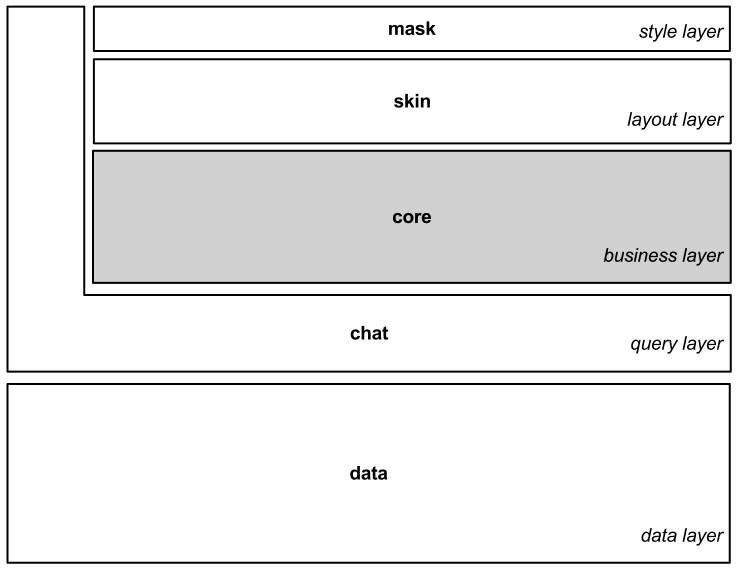
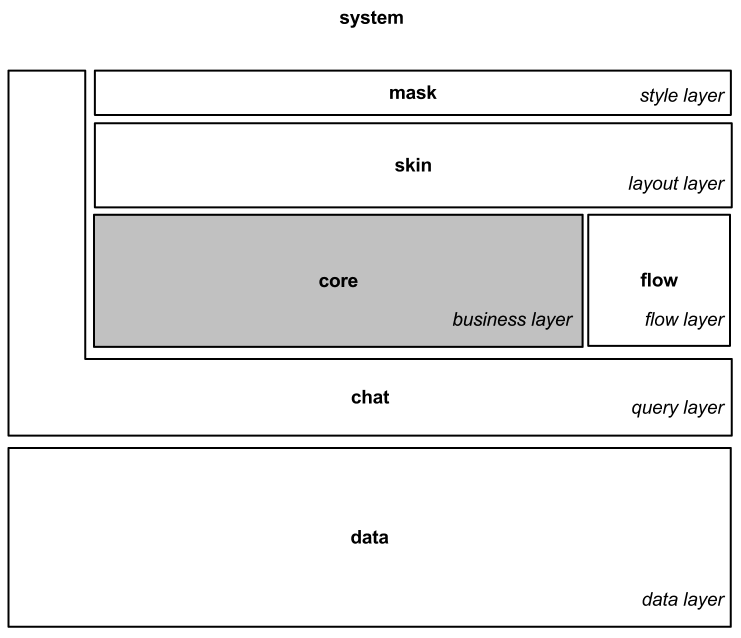
Updated

Changed region(s): [[0.0, 0.0, 0.9946, 1.0], [0.8703, 0.9213, 0.9946, 0.951], [0.4662, 0.8024, 0.5284, 0.8619]]

diff --git a/flow/README.md b/flow/README.md
@@ -1,0 +1,9 @@
+#docs/flow/README.md
+==============
+
+The flow documentation.
+![Image](../flow/images/system_overview_flow.png?raw=true)
+
+##About flow
+----------
+Flow is the **flow** layer.
